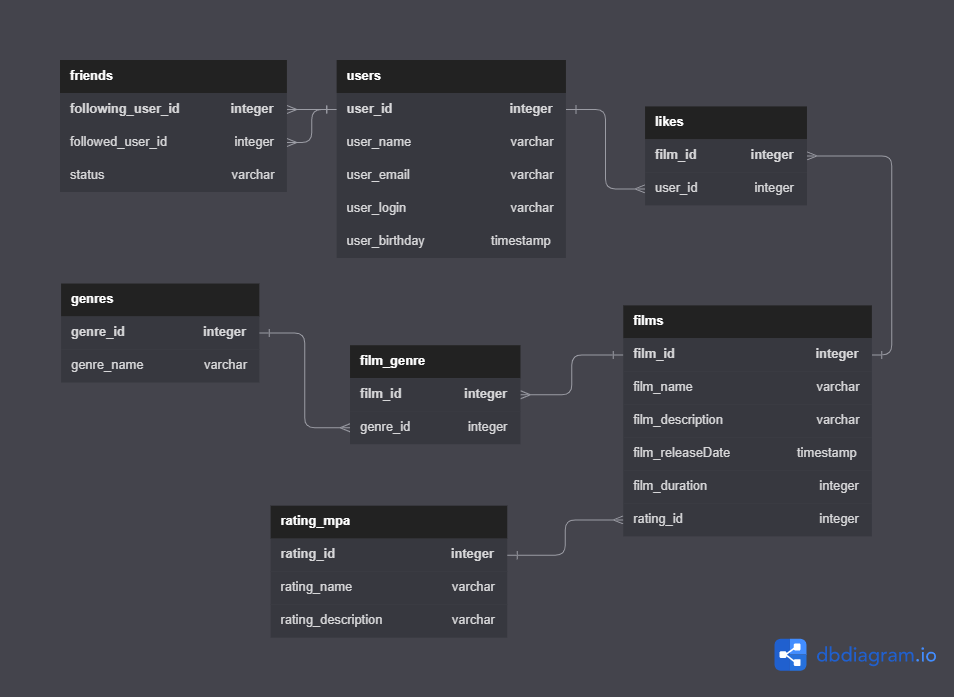
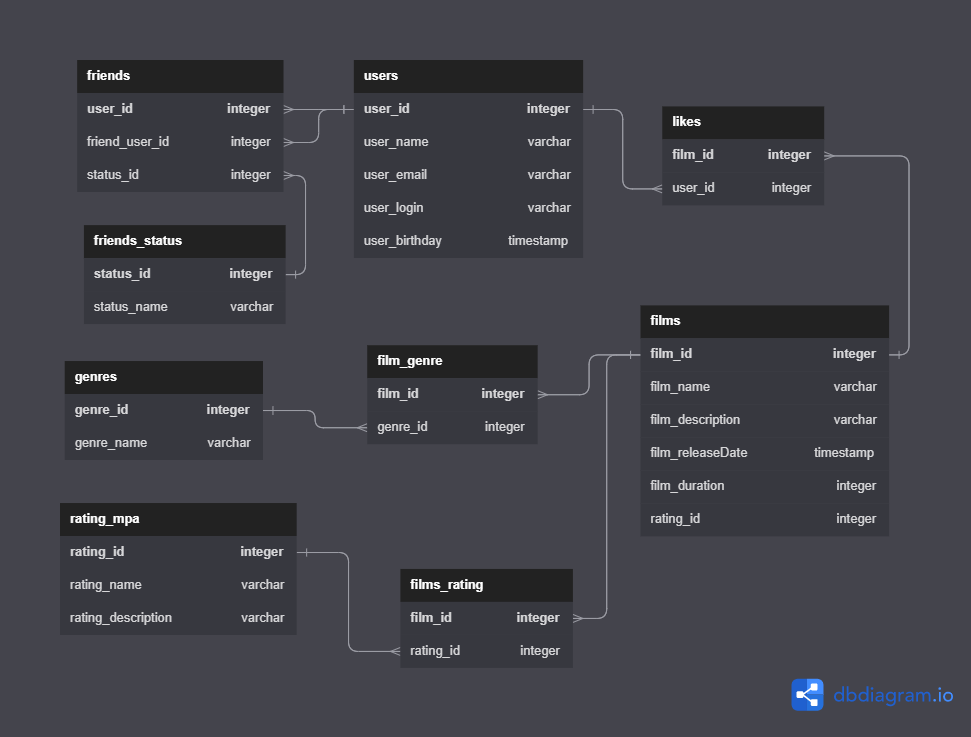
fix:ТЗ-11 сделано на 1/2 + readme со схемой

diff --git a/README.md b/README.md
@@ -1,5 +1,61 @@
 # java-filmorate
-Template repository for Filmorate project.
+Это бэкенд для сервиса, который будет работать с фильмами, пользователями, их предпочтениями.
+
+## Описание
+
+С помощью данного сервиса можно:
+
+- создать и изменить данные о конкретном фильме;
+- получать список всех созданных фильмов;
+- получать фильмы по заданным ID;
+- поставить или удалить лайк конкретному фильму;
+- зарегистрировать нового пользователя;
+- обновить данные существующего пользователя;
+- получить список всех зарегистрированных пользователей;
+- получать пользователя по заданным ID;
+- добавить или удалить друзей любого зарегистрированного пользователя.
+
+На диаграмме ниже представлены визуальные данные проекта и конкретные связи между таблицами.
 
 ![Java-filmorate project data base](src/main/resources/schema_filmorate.png)
-[исходник](https://drive.google.com/file/d/1eAx7BO-nadFQEke9ZTRBsApiojIM8j0n/view?usp=sharing)
+[исходник](https://drive.google.com/file/d/1hiB4UPHfdWY66AxW3Es2vCXPKXt_fo8V/view?usp=sharing)
+
+## Примеры SQL-запросов
+
+Получить фильм по id:
+
+```roomsql
+SELECT *
+FROM films 
+WHERE film_id = 1;
+```
+
+Получить все названия фильмов, рейтинг которых R:
+
+```roomsql
+SELECT f.name
+FROM films AS f
+LEFT JOIN film_rating AS fr ON fr.film_id = f.film_id
+LEFT JOIN rating_mpa AS r ON fr.rating_id = r.rating_id
+WHERE r.name = 'R';
+```
+
+Получить фильмы, жанр которых "драма":
+
+```roomsql
+SELECT f.name
+FROM films AS f
+LEFT JOIN film_genre AS fg ON f.film_id = fg.film_id
+LEFT JOIN genres AS g ON fg.genre_id = g.genre_id
+WHERE g.name = 'драма';
+```
+
+Вывести id подтвержденных друзей пользователя c id = 5:
+
+```roomsql
+SELECT u.name, fr.friend_user_id
+FROM users AS u
+LEFT JOIN friends AS fr ON f.user_id = fr.user_id
+LEFT JOIN friend_status AS fs ON fr.status_id = fs.status_id
+WHERE fs.status = 'подтверждено';
+```
